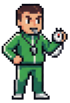
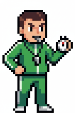
캐릭터·밀당 UI 개선
- AI 캐릭터: PNG 투명 배경 보존 (uploadPersonaImageToStorage)
- MEALOG M: Fredoka 폰트 적용
- 밀당 공유 버튼: 흰 배경으로 말풍선과 구분

diff --git a/js/utils.js b/js/utils.js
@@ -160,6 +160,42 @@ export function compressImageToBlob(file) {
     });
 }
 
+/** 캐릭터 이미지용: PNG 투명 배경 보존 (JPEG 변환 시 투명 영역이 검은색으로 나오는 문제 방지) */
+export function compressImageToBlobPreserveTransparency(file) {
+    return new Promise((resolve, reject) => {
+        if (!file.type.startsWith('image/')) {
+            reject(new Error('이미지 파일이 아닙니다'));
+            return;
+        }
+        const img = new Image();
+        const reader = new FileReader();
+        reader.onload = (e) => {
+            img.onload = () => {
+                const canvas = document.createElement('canvas');
+                const ctx = canvas.getContext('2d');
+                const maxWidth = 512;
+                let width = img.width;
+                let height = img.height;
+                if (width > maxWidth) {
+                    height = (height / width) * maxWidth;
+                    width = maxWidth;
+                }
+                canvas.width = width;
+                canvas.height = height;
+                ctx.drawImage(img, 0, 0, width, height);
+                canvas.toBlob((blob) => {
+                    if (!blob) reject(new Error('이미지 변환 실패'));
+                    else resolve(blob);
+                }, file.type === 'image/png' ? 'image/png' : 'image/jpeg', file.type === 'image/png' ? 0.9 : 0.85);
+            };
+            img.onerror = () => reject(new Error('이미지 로드 실패'));
+            img.src = e.target.result;
+        };
+        reader.onerror = () => reject(new Error('파일 읽기 실패'));
+        reader.readAsDataURL(file);
+    });
+}
+
 /** 밀톡용: 최대 용량 제한 압축 (장당 500KB 이하). 초과 시 에러 throw */
 export function compressImageToBlobMaxSize(file, maxSizeKB = 500) {
     return new Promise((resolve, reject) => {
@@ -322,6 +358,24 @@ export function compressBase64ToBlob(base64DataUrl) {
         
         img.src = base64DataUrl;
     });
+}
+
+/** 캐릭터 이미지 업로드: PNG 투명 배경 보존 */
+export async function uploadPersonaImageToStorage(file, userId, characterId) {
+    try {
+        const compressedBlob = await compressImageToBlobPreserveTransparency(file);
+        const ext = file.type === 'image/png' ? 'png' : 'jpg';
+        const timestamp = Date.now();
+        const randomStr = Math.random().toString(36).substring(2, 9);
+        const fileName = `${timestamp}_${randomStr}.${ext}`;
+        const path = `users/${userId}/persona/${characterId || 'temp'}/${fileName}`;
+        const storageRef = ref(storage, path);
+        await uploadBytes(storageRef, compressedBlob);
+        return await getDownloadURL(storageRef);
+    } catch (error) {
+        console.error('캐릭터 이미지 업로드 실패:', error);
+        throw error;
+    }
 }
 
 // Firebase Storage에 이미지 업로드

diff --git a/js/analytics/insight.js b/js/analytics/insight.js
@@ -396,9 +396,9 @@ export function selectInsightCharacter(characterId) {
             iconEl.innerHTML = `<img src="${character.image}" alt="${character.name}" class="w-full h-full object-cover">`;
             iconEl.className = 'w-full h-full flex items-center justify-center';
         } else if (character.id === 'mealog') {
-            // MEALOG는 텍스트 아이콘
+            // MEALOG는 텍스트 아이콘 (Fredoka 폰트)
             iconEl.textContent = 'M';
-            iconEl.className = 'text-2xl font-black text-white';
+            iconEl.className = 'text-2xl font-black mealog-character-m';
         } else {
             // 기본 이모지 아이콘
             iconEl.textContent = character.icon;
@@ -1283,13 +1283,13 @@ export async function updateShareButtonStatus() {
         const isShared = !!existingShare;
         
         if (isShared) {
-            // 공유됨 상태: 버튼 박스 표시 (배경색만, 보더 없음)
+            // 공유됨 상태: 흰 배경으로 구분감
             shareBtn.innerHTML = '<i class="fa-solid fa-share text-[10px] mr-1"></i>공유됨';
-            shareBtn.className = 'flex-shrink-0 bg-emerald-600 rounded-lg font-bold text-[10px] shadow-md active:bg-emerald-700 transition-colors py-1 px-2 text-white';
+            shareBtn.className = 'insight-share-btn insight-share-btn--shared flex-shrink-0 rounded-lg font-bold text-[10px] py-1 px-2';
         } else {
-            // 공유 안 됨 상태: 버튼 박스 제거 (텍스트만 표시)
+            // 공유 안 됨 상태: 흰 배경으로 구분감
             shareBtn.innerHTML = '<i class="fa-solid fa-share text-[10px] mr-1"></i>공유하기';
-            shareBtn.className = 'flex-shrink-0 font-bold text-[10px] text-emerald-600 hover:text-emerald-700 transition-colors py-1 px-2';
+            shareBtn.className = 'insight-share-btn insight-share-btn--default flex-shrink-0 rounded-lg font-bold text-[10px] py-1 px-2';
         }
     }
 }

diff --git a/index.html b/index.html
@@ -658,7 +658,7 @@
                         <!-- 밀당 캐릭터 선택 창 -->
                         <div class="insight-character-column relative flex-shrink-0 flex flex-col gap-2 w-[75px]">
                             <button id="insightCharacterBtn" onclick="window.openCharacterSelectModal()" class="insight-character-btn w-[75px] h-[132px] rounded-2xl flex flex-col items-center justify-center transition-colors overflow-hidden">
-                                <div id="insightCharacterIcon" class="w-full h-full flex items-center justify-center text-2xl font-bold text-white">M</div>
+                                <div id="insightCharacterIcon" class="w-full h-full flex items-center justify-center text-2xl font-bold mealog-character-m">M</div>
                             </button>
                             <button id="generateCommentBtn" onclick="window.generateInsightComment()" class="insight-comment-trigger w-[75px] rounded-xl font-semibold py-1.5 transition-colors">
                                 분석하기
@@ -669,7 +669,7 @@
                             <div id="insightBubble" class="insight-bubble relative">
                                 <div class="insight-bubble-header flex items-center justify-between gap-3">
                                     <span id="insightCharacterName" class="insight-character-name"></span>
-                                    <button id="shareInsightBtn" onclick="window.openShareInsightModal()" class="insight-share-btn flex-shrink-0 hidden">
+                                    <button id="shareInsightBtn" onclick="window.openShareInsightModal()" class="insight-share-btn insight-share-btn--default flex-shrink-0 hidden">
                                         <i class="fa-solid fa-share text-xs mr-1"></i>공유
                                     </button>
                                 </div>

diff --git a/css/style.css b/css/style.css
@@ -946,16 +946,36 @@ header .mealog-title {
     padding: 0.375rem 0.75rem;
     font-size: 11px;
     font-weight: 600;
-    color: #fff;
-    background: #059669;
     border: none;
     border-radius: 9999px;
-    transition: background 0.15s;
+    transition: background 0.15s, color 0.15s;
 }
-.insight-share-btn:hover {
+/* 밀당 말풍선 내 공유 버튼: 흰 배경으로 배경색(#047857)과 구분 */
+.insight-share-btn.insight-share-btn--default {
+    background: #ffffff;
+    color: #047857;
+}
+.insight-share-btn.insight-share-btn--default:hover {
+    background: #f0fdf4;
+    color: #065f46;
+}
+.insight-share-btn.insight-share-btn--shared {
+    background: #ffffff;
+    color: #059669;
+}
+.insight-share-btn.insight-share-btn--shared:hover {
+    background: #ecfdf5;
+    color: #047857;
+}
+/* insight-share-btn 기본값 (다른 곳에서 클래스만 사용할 때) */
+.insight-share-btn:not(.insight-share-btn--default):not(.insight-share-btn--shared) {
+    color: #fff;
+    background: #059669;
+}
+.insight-share-btn:not(.insight-share-btn--default):not(.insight-share-btn--shared):hover {
     background: #047857;
 }
-.insight-share-btn:active {
+.insight-share-btn:not(.insight-share-btn--default):not(.insight-share-btn--shared):active {
     background: #065f46;
 }
 #insightTextContent.insight-text-content,
@@ -981,6 +1001,10 @@ header .mealog-title {
 }
 .insight-character-btn #insightCharacterIcon {
     color: #047857;
+}
+/* MEALOG M: Fredoka 폰트 */
+.insight-character-btn #insightCharacterIcon.mealog-character-m {
+    font-family: 'Fredoka', sans-serif;
 }
 /* 캐릭터 이미지: 창 전체를 채우고 모서리 둥글게 */
 .insight-character-btn #insightCharacterIcon img {

diff --git a/js/admin.js b/js/admin.js
@@ -7,7 +7,7 @@ import { getAuth, GoogleAuthProvider, signInWithPopup, signInWithEmailAndPasswor
 // Firestore 규칙·Callable은 기본 Auth만 인식하므로 관리자도 기본 Auth 사용 (admin 페이지는 별도 URL)
 const adminAuth = getAuth(app);
 import { collection, getDocs, query, orderBy, limit, doc, deleteDoc, getDoc, setDoc, where, writeBatch, addDoc, serverTimestamp, getCountFromServer } from "https://www.gstatic.com/firebasejs/11.6.1/firebase-firestore.js";
-import { uploadImageToStorage } from './utils.js';
+import { uploadImageToStorage, uploadPersonaImageToStorage } from './utils.js';
 import { getReportsAggregateByGroupKeys, deleteBoardPostByAdmin, setBoardPostHidden } from './db.js';
 import { REPORT_REASONS } from './constants.js';
 import { getCurrentTermsVersion, invalidateTermsVersionCache } from './utils-terms.js';
@@ -4691,8 +4691,8 @@ window.handleCharacterImageUpload = async function(event) {
             return;
         }
         
-        // Firebase Storage에 업로드
-        const imageUrl = await uploadImageToStorage(file, user.uid, `persona/${currentEditingCharacterId || 'temp'}`);
+        // Firebase Storage에 업로드 (PNG 투명 배경 보존)
+        const imageUrl = await uploadPersonaImageToStorage(file, user.uid, currentEditingCharacterId || 'temp');
         
         // 이미지 URL 필드에 설정
         const imageInput = document.getElementById('characterImage');

diff --git a/js/analytics/dashboard.js b/js/analytics/dashboard.js
@@ -409,9 +409,9 @@ export async function updateDashboard() {
                     characterIconEl.innerHTML = `<img src="${character.image}" alt="${character.name}" class="w-full h-full object-cover">`;
                     characterIconEl.className = 'w-full h-full flex items-center justify-center';
                 } else if (character.id === 'mealog') {
-                    // MEALOG는 텍스트 아이콘
+                    // MEALOG는 텍스트 아이콘 (Fredoka 폰트)
                     characterIconEl.textContent = 'M';
-                    characterIconEl.className = 'text-2xl font-black text-white';
+                    characterIconEl.className = 'text-2xl font-black mealog-character-m';
                 } else {
                     // 기본 이모지 아이콘
                     characterIconEl.textContent = character.icon;
